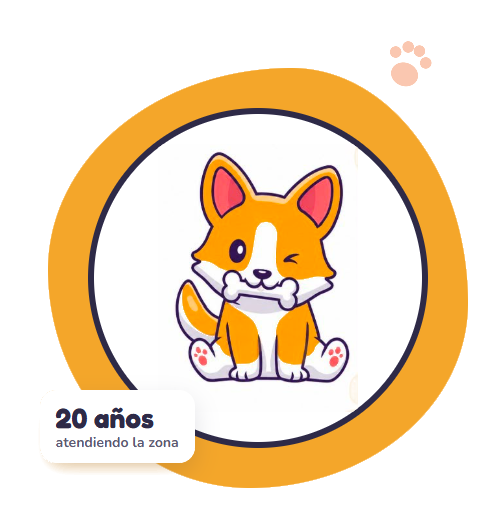
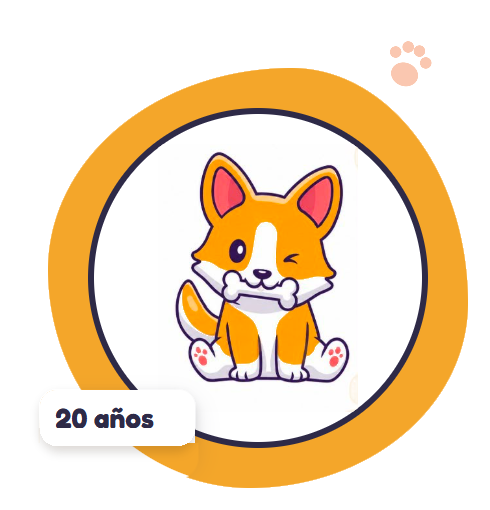
Actualiza American Express y Zunify, y deja solo 20 años en la insignia flotante

Changed region(s): [[0.0918, 0.8529, 0.398, 0.9412]]

diff --git a/index.html b/index.html
@@ -363,7 +363,7 @@
               </span>
               <div>
                 <p class="visit-label">Medios de pago</p>
-                <p class="visit-value">Efectivo · SINPE Móvil<br />Visa · Mastercard · Amex</p>
+                <p class="visit-value">Efectivo · SINPE Móvil<br />Visa · Mastercard · American Express · Zunify</p>
               </div>
             </li>
           </ul>
@@ -394,7 +394,8 @@
           <li class="pay-pill">SINPE Móvil</li>
           <li class="pay-pill">Visa</li>
           <li class="pay-pill">Mastercard</li>
-          <li class="pay-pill">Amex</li>
+          <li class="pay-pill">American Express</li>
+          <li class="pay-pill">Zunify</li>
         </ul>
       </div>
     </section>
